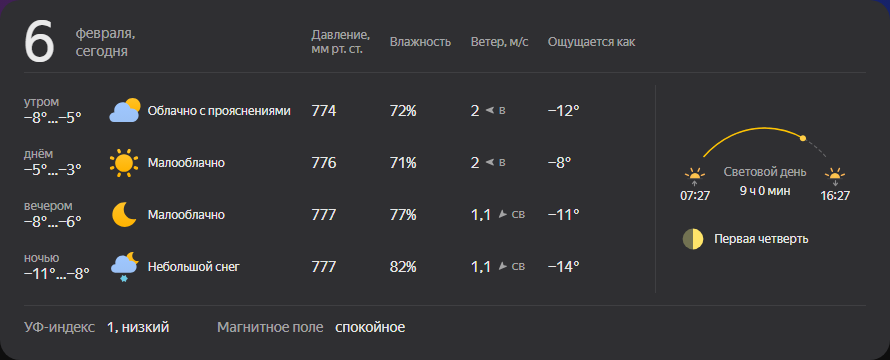
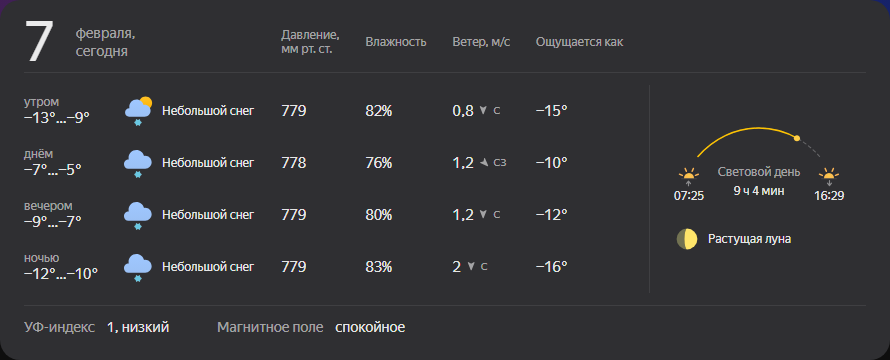
new AI

diff --git a/handlers/AI.py b/handlers/AI.py
@@ -97,22 +97,48 @@ async def start_questionnaire_process(message: Message, state: FSMContext):
     data = await state.get_data()
     await state.set_state(None)
     await bot.edit_message_text(chat_id=message.chat.id,message_id=data['botmsgid'], text="Идет генерация")
-    path = await ImageGen(data['prompt'], data['form'][0], data['form'][1])
-    photo_file = FSInputFile(path=path)
-    await message.answer_photo(photo=photo_file, reply_markup=keyboard(), caption=data['prompt'])
+    client = Client()
+    response = client.chat.completions.create(
+        model="gpt-4o",
+        messages=[{"role": "user", "content": f"Translate the following text to English: {data['prompt']}, only answer without other text pls"}]
+    )
+    await state.update_data(prompt=response.choices[0].message.content)
+    data = await state.get_data()
+    response = client.images.generate(
+        model="dall-e-3",
+        prompt=data['prompt'],
+        width=data['form'][0],
+        height=data['form'][1]
+    )
+    path=response.data[0].url.replace("/images/","handlers/generated_images/")
+    image = FSInputFile(path=path)
+    await message.answer_photo(photo=image, reply_markup=keyboard(), caption=data['prompt'])
     await bot.delete_message(chat_id=message.chat.id, message_id=data['botmsgid'])
     os.remove(path)
+    #path = await ImageGen(data['prompt'], data['form'][0], data['form'][1])
+    #photo_file = FSInputFile(path=path)
+    #await message.answer_photo(photo=photo_file, reply_markup=keyboard(), caption=data['prompt'])
+    #await bot.delete_message(chat_id=message.chat.id, message_id=data['botmsgid'])
+    #os.remove(path)
 
 @AI_router.message(F.text == "Еще раз ♻")
 async def AIagainImage(message: Message, state: FSMContext):
     await message.delete()
     data = await state.get_data()
     o = await message.answer(text="Идет генерация", reply_markup=main_kb(message))
-    path = await ImageGen(data['prompt'], data['form'][0], data['form'][1])
-    photo_file = FSInputFile(path=path)
-    await message.answer_photo(photo=photo_file, reply_markup=keyboard(), caption=data['prompt'])
-    await o.delete()
+    client = Client()
+    response = client.images.generate(
+        model="dall-e-3",
+        prompt=data['prompt'],
+        width=data['form'][0],
+        height=data['form'][1]
+    )
+    path=response.data[0].url.replace("/images/","handlers/generated_images/")
+    image = FSInputFile(path=path)
+    await message.answer_photo(photo=image, reply_markup=keyboard(), caption=data['prompt'])
+    await bot.delete_message(chat_id=message.chat.id, message_id=data['botmsgid'])
     os.remove(path)
+    await o.delete()
 
 @AI_router.callback_query(F.data == 'image')
 async def AIimage(call: CallbackQuery, state: FSMContext):
@@ -167,9 +193,9 @@ async def portraitimage(call: CallbackQuery, state: FSMContext):
 
 #ГЕНЕРАЦИЯ ОТВЕТОВ
 
-#class AIText(StatesGroup()):
-    #prompt = State()
-    #response = State()
+class AIText(StatesGroup()):
+    context = State()
+    prompt = State()
 
 
 

diff --git a/gpttest.py b/gpttest.py
@@ -1,19 +1,41 @@
 from g4f.client import Client
 
 client = Client()
-lang = "English"
-text = "Красивая рыжая девушка"
-
-response = client.chat.completions.create(
-    model="gpt-4o",
-    messages=[{
-        "role": "user",
-        "content": f"Translate the following text to {lang}: {text}, only answer without other text pls"
-    }]
+response = client.images.generate(
+    model="dall-e-3",
+    prompt="girl",
+    width=512,
+    height=1024
 )
 
-translated = response.choices[0].message.content
+image_url = response.data[0].url
+print(response)
+print(image_url)
+exit()
+lang = "English"
+text = "Красивая рыжая девушка"
+context = [{"role": "user",
+        "content": f"Translate the following text to {lang}: {text}, only answer without other text pls"}]
+response = client.chat.completions.create(
+    model="gpt-4o",
+    messages=context
+)
 
+context.append({"role":response.choices[0].message.role,"content":response.choices[0].message.content})
+translated = response.choices[0].message.content
+context.append({
+        "role": "user",
+        "content": "сколько будет 4+4 и повтори предыдущий ответ еще раз"
+    })
+
+print(response.choices[0].message.content)
+response = client.chat.completions.create(
+    model="gpt-4o",
+    messages=context
+)
+print(response.choices[0].message.content)
+
+exit()
 response = client.images.generate(
     model="dall-e-3",
     prompt=translated,